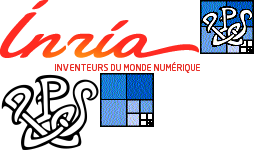
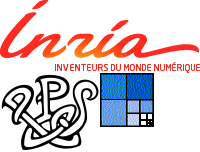
sprites path update

diff --git a/static/imgs/icons.css b/static/imgs/icons.css
@@ -1,8 +1,9 @@
-/* glue: 0.9.4 hash: 2283dda404 */
+/* glue: 0.9.4 hash: 54b297c890 */
         .i-inria,
 .i-pps,
-.i-liafa {
-            background-image: url('/static/imgs/icons.png');
+.i-liafa,
+.i-app {
+            background-image: url('icons.png');
             background-repeat: no-repeat;
         }
         
@@ -24,14 +25,21 @@
             height: 54px;
         }
         
+        .i-app {
+            background-position: -200px 0;
+            width: 54px;
+            height: 54px;
+        }
+        
         @media screen and (-webkit-min-device-pixel-ratio: 1.0), screen and (min--moz-device-pixel-ratio: 1.0), screen and (-o-min-device-pixel-ratio: 100/100), screen and (min-device-pixel-ratio: 1.0), screen and (min-resolution: 1.0dppx) {
             .i-inria,
     .i-pps,
-    .i-liafa {
-                background-image: url('/static/imgs/icons.png');
-                -webkit-background-size: 200px 152px;
-                -moz-background-size: 200px 152px;
-                background-size: 200px 152px;
+    .i-liafa,
+    .i-app {
+                background-image: url('icons.png');
+                -webkit-background-size: 254px 152px;
+                -moz-background-size: 254px 152px;
+                background-size: 254px 152px;
             }
         }
         

diff --git a/README.md b/README.md
@@ -19,10 +19,9 @@ Requirements:
 * Java (to minify the JS/CSS/HTML code)
 * Redis
 
-```sh
-# install dependencies
-make deps
-```
+Install Python dependencies:
+
+    make deps
 
 Note: I use Redis because Heroku doesn’t support file storage. You can modify
 the code to use a static file and remove the Redis dependency if you prefer.
@@ -37,15 +36,15 @@ Optional requirements:
 Make sure you started `redis-server`. Run the scheduler once to fetch people
 data:
 
-```sh
-venv/bin/python scheduler.py
-```
+    venv/bin/python scheduler.py
+
+And compile the sprites:
+
+    make -B sprites
 
 Then run the app:
 
-```sh
-make run
-```
+    make run
 
 And open your browser at `localhost:8000`. You’ll have to wait a few seconds
 the first time because the JS/CSS/HTML code has to be minified.
